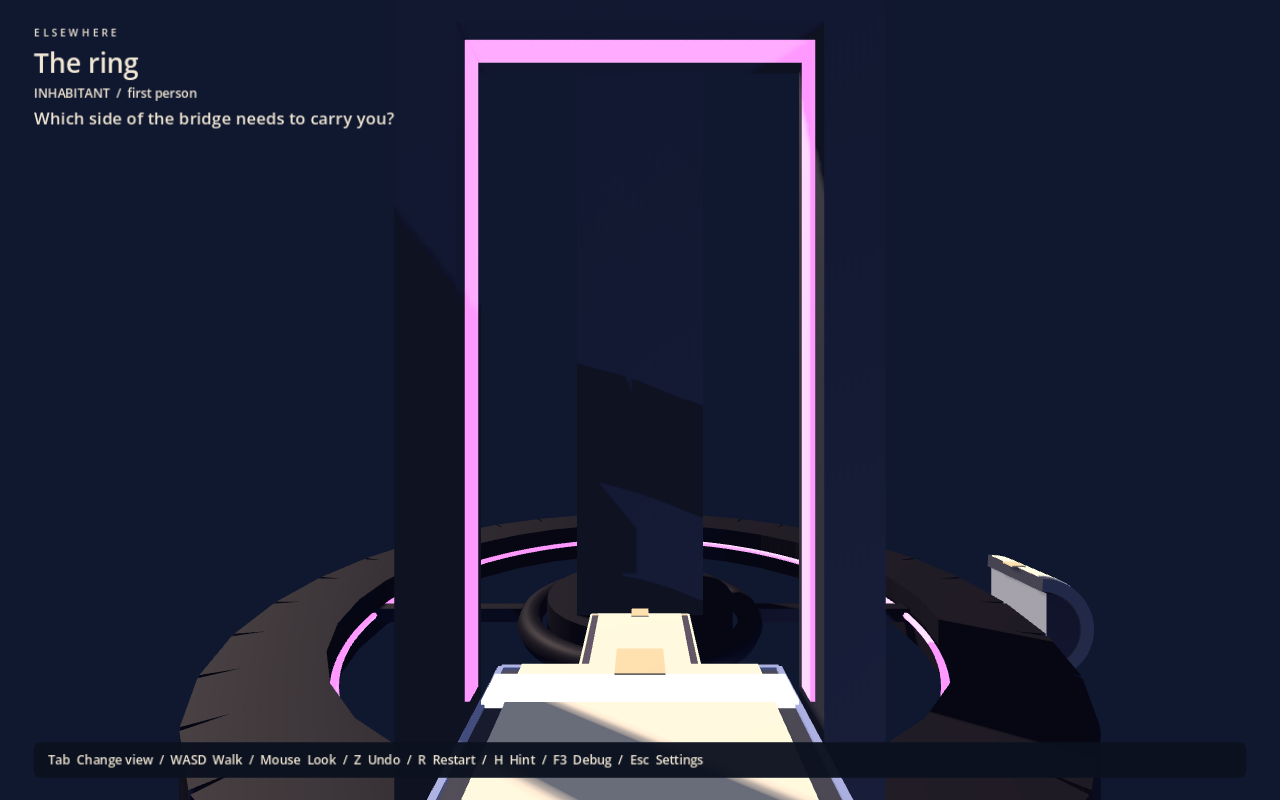
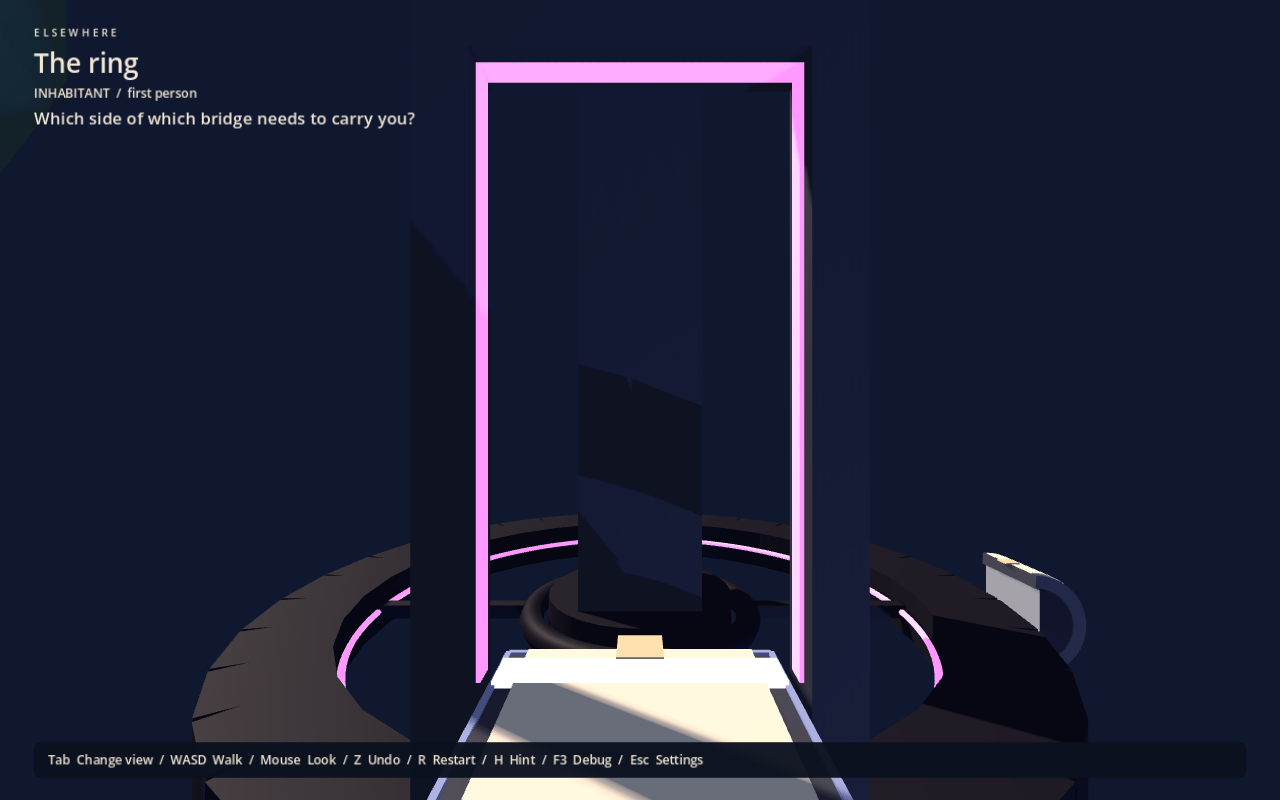
Give The Ring two bridges whose roles swap
The rib opposite the bridge becomes a second walkable arm. The upper bridge
is walkable only on top and carries you in; the lower bridge is walkable
only underneath and has been docked to the exit balcony since the start.
The fixed stair joins one bridge's top to the other's underside, so the
player must ride to the stair, wait on it while the empty ring brings the
far bridge around, go under, and ride back to the starting arrangement.
Level revision 2 invalidates older saves.

Tests cover all four states, remote turns, the upper bridge's wrong side,
staying aboard, the stair with no underside to land on, the solution in
both waiting directions and Play From Here on the lower bridge.

diff --git a/docs/authoring.md b/docs/authoring.md
@@ -17,7 +17,7 @@ For a new level, duplicate one of the scenes in `monuments/`, change **Level > l
 
 | Scene | Spatial decision | Authoring coverage |
 |---|---|---|
-| `the_ring.tscn` | Ride the bridge to the stair, change to its underside, and turn it again while hanging beneath | Vertical-axis turntable, top and underside faces of one bridge, fixed 180° side-change stair, a wheel of art meshes (band, hub, ribs) carried by the rotator with no collision, an authored goal landmark replacing the placeholder, three states with distinct roles |
+| `the_ring.tscn` | The exit is docked to the far bridge's underside from the start; the near bridge has no underside. Ride to the stair, wait on it while the empty ring brings the far bridge, go under, and ride back to the starting arrangement | Vertical-axis turntable carrying two radial bridges walkable on opposite faces, fixed 180° side-change stair that doubles as the waiting place, art-only wheel (band, hub, ribs), authored goal landmark, entry state reused as exit state |
 | `tests/fixtures/bell_cradle.tscn` (test fixture) | Leave the moving arm at the fixed belfry before turning it again | Vertical belfry, radial cradle, checkpoint, fixed gravity transfer and a custom torus mesh independent of path logic |
 | `tests/fixtures/folded_observatory.tscn` (test fixture) | Prepare the receiver before docking fingers occupy its sweep | Folding gallery, narrow bent receiver, two-state hinge, custom rectangular walk regions and collision boxes |
 
@@ -27,7 +27,7 @@ The Ring is the only monument: the first Phase 1 study of a different variable, 
 
 ![The ring blockout, solved](images/the-ring-overview.png)
 
-Also see [the ring from its underside](images/the-ring-underside.png), [the entrance in first person](images/the-ring-entrance.png), [the view back from the terrace](images/the-ring-terrace.png), the [folded observatory blockout](images/authoring-observatory.png) and the [isolated editor state preview](images/authoring-state-preview.png).
+Also see [the far bridge arriving under the stair](images/the-ring-waiting.png), [riding beneath it](images/the-ring-underside.png), [the entrance in first person](images/the-ring-entrance.png), [the view back from the terrace](images/the-ring-terrace.png), the [folded observatory blockout](images/authoring-observatory.png) and the [isolated editor state preview](images/authoring-state-preview.png).
 
 ## Components and coordinates
 

diff --git a/docs/skill.md b/docs/skill.md
@@ -6,7 +6,7 @@ How to work in this repository. The [spec](spec.md) owns every design decision; 
 
 The project restarted on 1 October 2026 from the ELSEWHERE spec. The earlier prototype (positioning studies, the connected courtyard chapter, the Lantern Fold, the procedural monument, the portal gallery, camera experiments and their docs) is archived read-only in `legacy/`. The last runnable prototype is the git tag `prototype-final`. Use the archive as reference; do not import from it, and do not revive its procedural layout builders.
 
-Current phase: spec §54 **Phase 1 — Prove Puzzle Depth**. The only monument is The Ring, which makes *which side of the bridge* the variable, using a turntable and a fixed side-change stair. The authored Turning Frame conversion is archived in `legacy/monuments/`; spec §41–42 still names the Turning Frame as a design target, so a fresh version may return as a new monument. The next real work is new monuments with distinct spatial ideas (candidates: Appendix A of the spec), each tested against §16 and §51.
+Current phase: spec §54 **Phase 1 — Prove Puzzle Depth**. The only monument is The Ring: two bridges on one turntable, walkable on opposite faces, joined only through a fixed stair where the player must wait while the empty ring turns. The authored Turning Frame conversion is archived in `legacy/monuments/`; spec §41–42 still names the Turning Frame as a design target, so a fresh version may return as a new monument. The next real work is new monuments with distinct spatial ideas (candidates: Appendix A of the spec), each tested against §16 and §51.
 
 ## Layout
 

diff --git a/docs/spec.md b/docs/spec.md
@@ -1601,7 +1601,7 @@ As of 1 October 2026, on branch `feature/elsewhere-spec`. Details of how each sy
 | §48 Socket snapping | Not started |
 | §49 Later tools (reachability, sweep visualization, snapshots) | Not started; validation reports structural errors only |
 | §42 Turning Frame | Prototype conversion archived in `legacy/monuments/`; a fresh Turning Frame is not started |
-| §54 Phase 1: 2–3 further monuments with *different* spatial concepts | 1 in progress: **The Ring** (side as the variable; turntable with a fixed side-change stair). Blockout tested mechanically, not playtested. Bell Cradle and Folded Observatory are now test fixtures only |
+| §54 Phase 1: 2–3 further monuments with *different* spatial concepts | 1 in progress: **The Ring** (which bridge *and* which side; two bridges on one turntable, a fixed stair that is both side-changer and waiting place, entry state reused as exit state). Blockout tested mechanically, not playtested. Bell Cradle and Folded Observatory are now test fixtures only |
 | §24–32 Art direction, materials, emissive accents, background world | Not started (blockout colours only) |
 | §33 Minimal UI | Basic: debug details hidden behind F3 |
 | §35–36 Audio and music | Not started |
